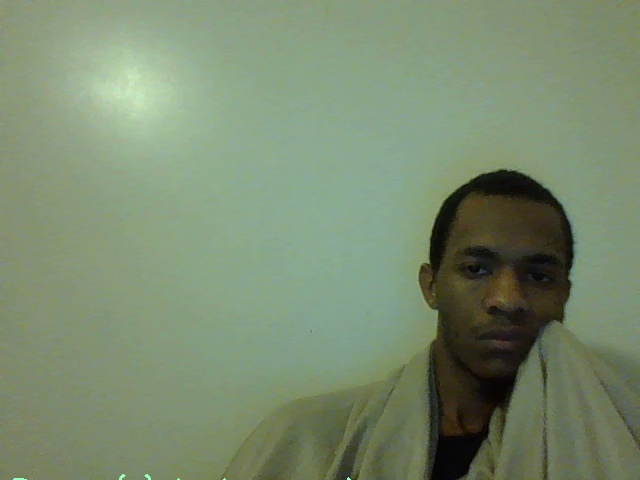
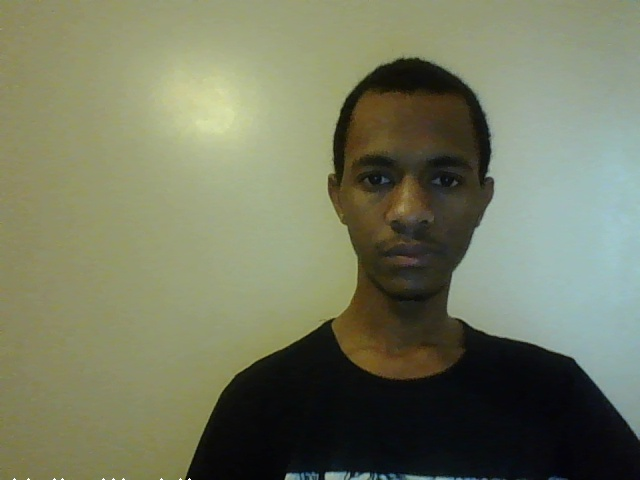
Added __init__.py

diff --git a/imcap.py b/imcap.py
@@ -1,12 +1,13 @@
 import cv2
 import numpy as np 
 
+font = cv2.FONT_HERSHEY_SIMPLEX
+
 vid = cv2.VideoCapture(0)
 while(True):
 	_, frame = vid.read()
 	cv2.imshow('frame', frame)
-	font = cv2.FONT_HERSHEY_SIMPLEX
-	cv2.putText(frame,'Press (s) to browse image',(10,500), font, 1, (200,255,155), 2, cv2.LINE_AA)
+	cv2.putText(frame,'Hello World!',(10,500), font, 1,(255,255,255),2)
 	if cv2.waitKey(1) & 0xFF == ord('s'):
 		cv2.imwrite("frame.jpg",frame)
 		break
